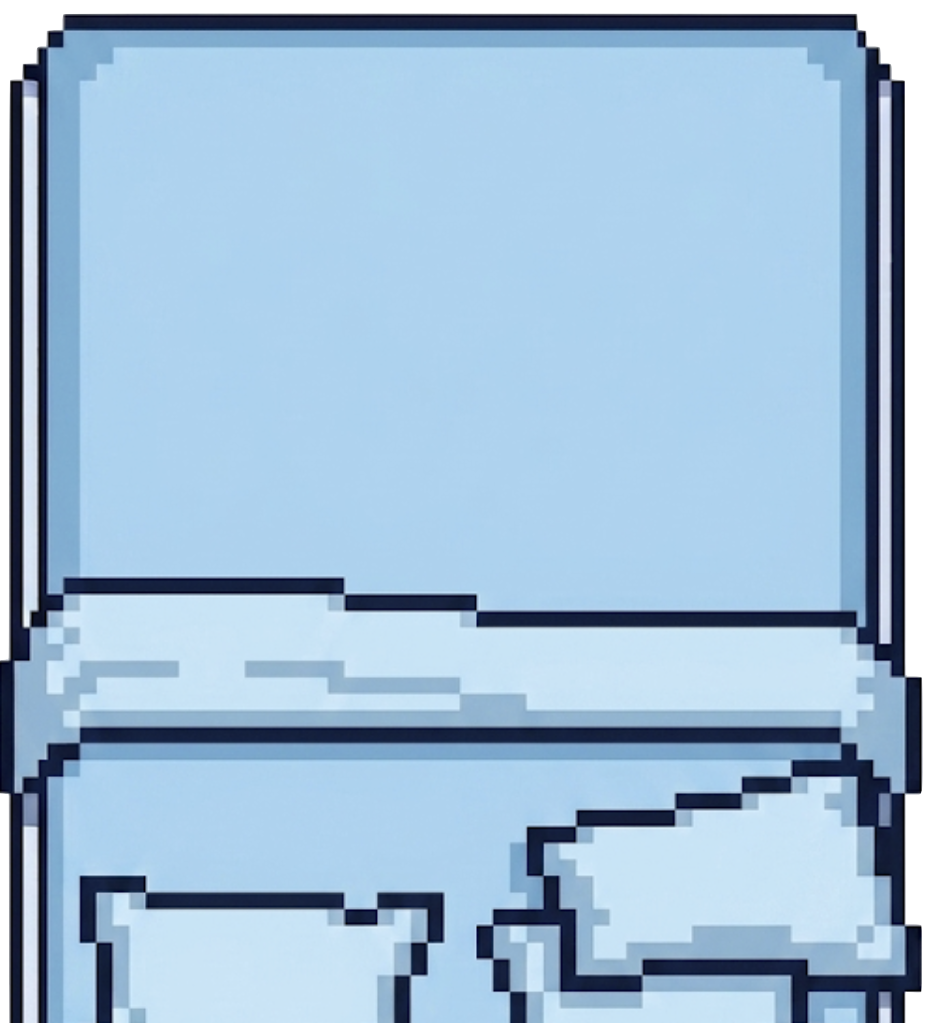
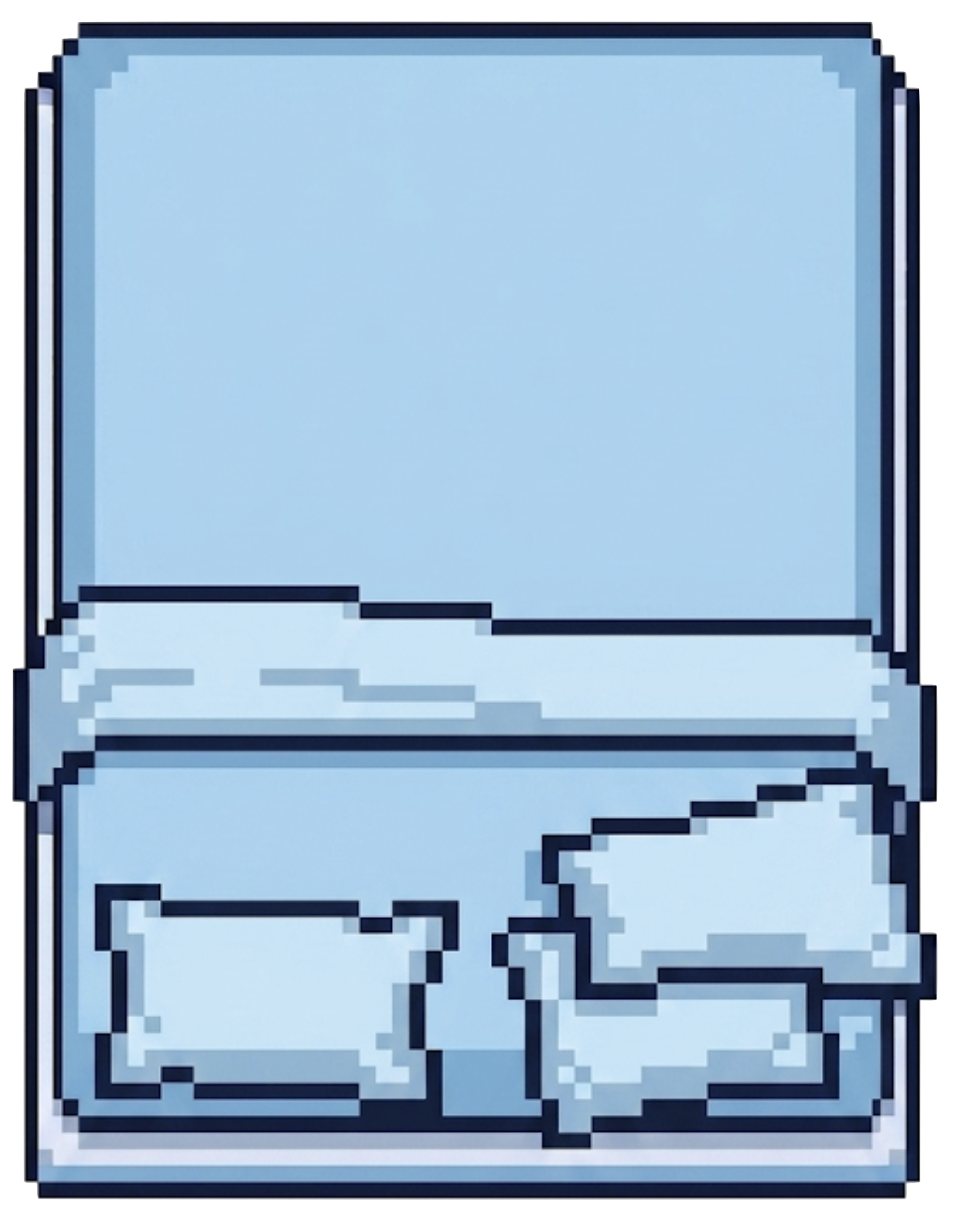
Nouvelle version du sprite du lit (bed.png), proportions recalées

diff --git a/app/src/components/house-map.tsx b/app/src/components/house-map.tsx
@@ -641,9 +641,9 @@ export const HouseMap = memo(function HouseMap({ night }: { night: boolean }) {
           le mur du bas le masque de 0,5 case */}
       <SvgImage
         x={LIT_L}
-        y={RY(6) - 53}
+        y={RY(6) - 61}
         width={48}
-        height={53}
+        height={61}
         preserveAspectRatio="xMidYMid meet"
         href={require('../../assets/images/bed.png')}
       />
